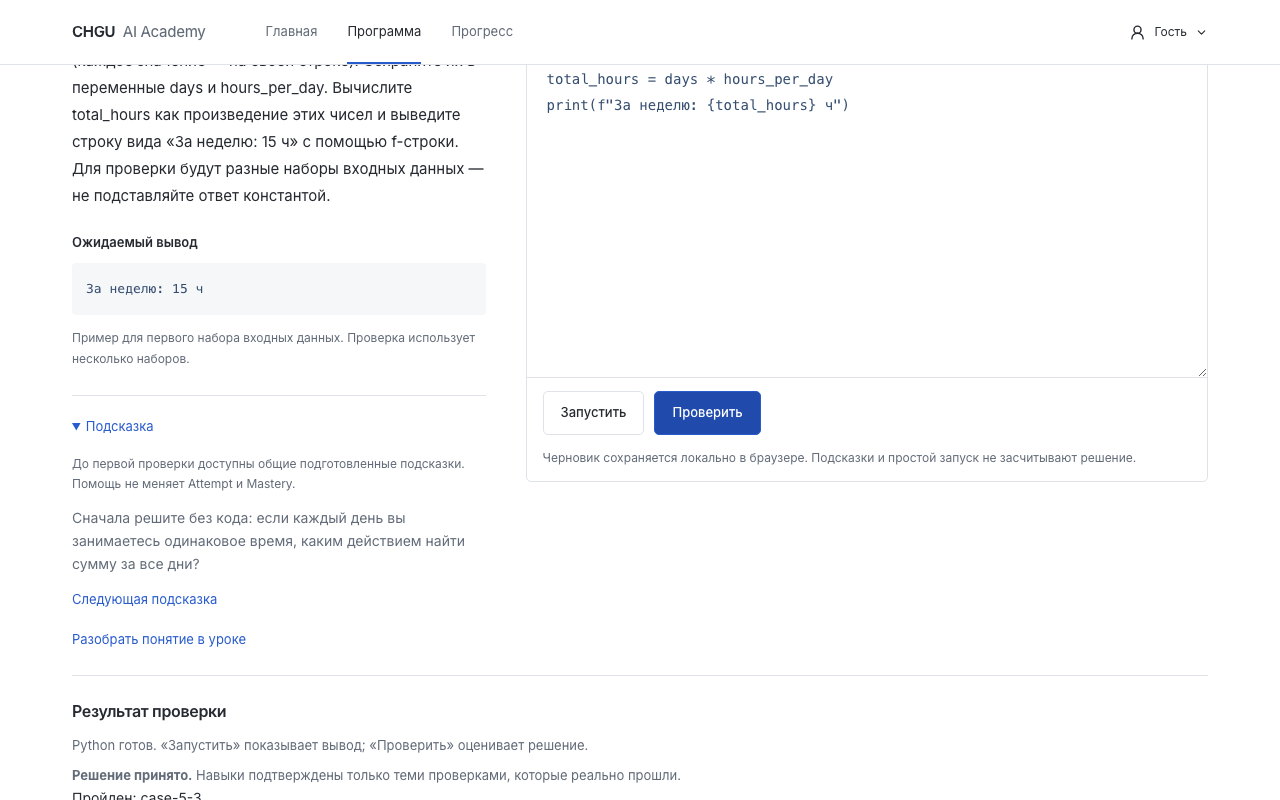
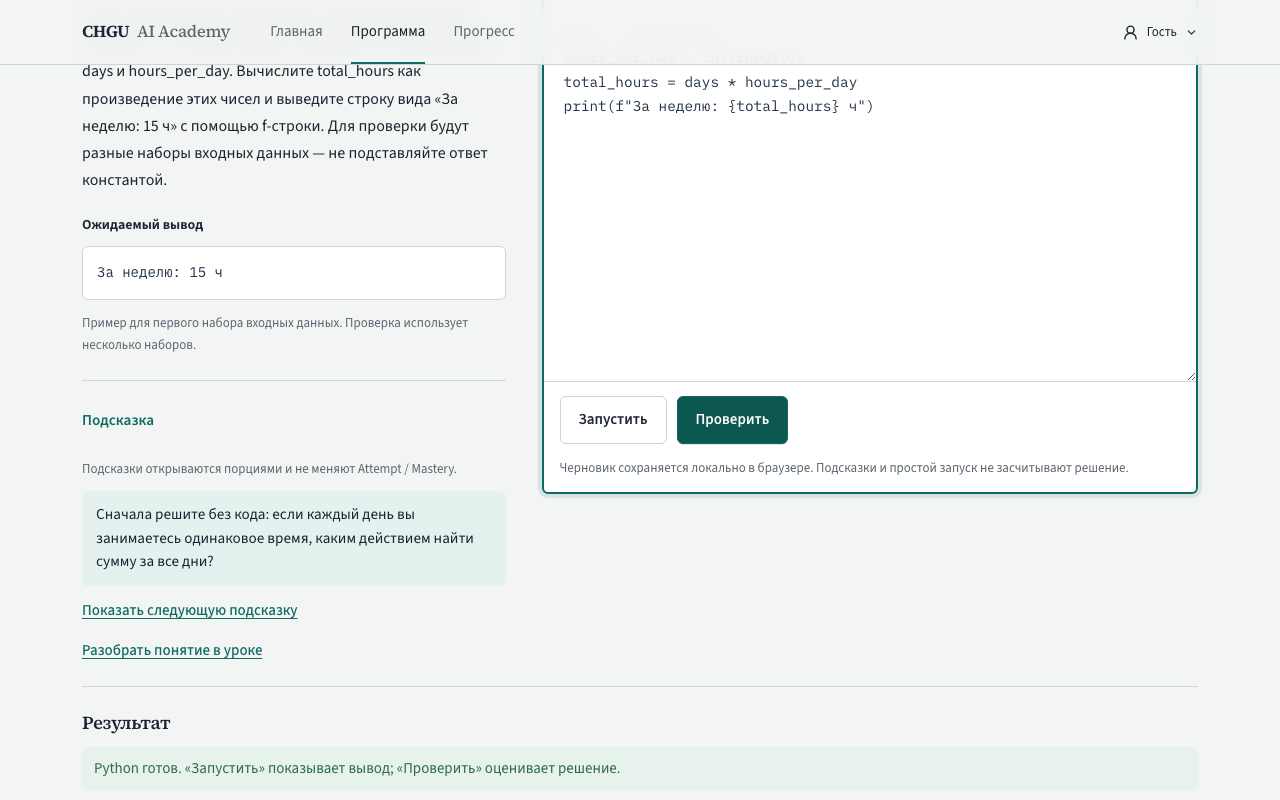
Add contest redesign report and refresh public evidence screenshots.

diff --git a/tasks/CURSOR_REPORT_REDESIGN.md b/tasks/CURSOR_REPORT_REDESIGN.md
@@ -1,0 +1,47 @@
+# Отчёт · конкурсный редизайн
+
+## Preview URL
+https://chgu-ai-academy-pe7coxp4h-isadadashev777-6756s-projects.vercel.app
+
+## Production URL
+https://chgu-ai-academy.vercel.app
+
+## База и ветка
+- Freeze tag: `redesign-base-2026-11-08` (+ `contest-2026-11-08`)
+- Ветка: `feat/contest-redesign` → смержена в `main` после проверки
+- Конкурсные DOCX/PDF не удалялись и не переписывались
+
+## Использованные skills (реально)
+Скачаны с GitHub и применены при работе:
+1. **frontend-design** (`anthropics/skills`) — характер, типографика, анти-шаблоны AI-дизайна
+2. **effective-ui-design** (`sebastian-software/effective-ui-design-skill`) — контраст/AA, 8pt ритм, иерархи кнопок, dark mode, reduced motion
+3. **accessibility-inclusive-design** (`hueyexe/frontend-agent-skills`) — семантика, фокус, skip-link, touch targets, keyboard
+4. **ui-visual-composition** (`hueyexe/frontend-agent-skills`) — иерархия, spacing, restraint
+
+Также использован локальный **deploy-with-vercel** (CLI deploy preview/prod; MCP Vercel в сессии не применялся).
+
+Специализированный «фирменный» skill бренда ЧГУ отсутствует — не утверждается.
+
+## Дизайн-решения
+Концепция «учебный стол» (`tasks/DESIGN_CONCEPT.md`):
+- Source Serif 4 + Source Sans 3 + IBM Plex Mono
+- Teal accent только для действий; спокойный paper-фон без декоративных градиентов/стоков/гербов
+- Главная: бренд + польза + CTA «Попробовать урок» + компактный цикл код→ошибка→подсказка→исправление; «1 урок · 2 задачи» вторично
+- Урок: сильнее заголовки/TOC/code blocks/заметки
+- Практика: акцент на редактор и «Проверить»; результат с явным следующим шагом; техдетали модели спрятаны в `<details>`
+- Прогресс: три панели — задачи / навыки / следующий шаг; без процентов и наград
+
+## Проверки
+- `npm run typecheck` — OK
+- `npm run build` — OK
+- `npm run test:learning` — OK
+- `npm run test:e2e` — OK (desktop/mobile 390, темы, оба редактора через сценарий, полный цикл)
+- Preview HTTPS полный путь — OK (`competition/evidence/redesign/preview-verify.log`)
+- Production короткий повтор — OK (`competition/evidence/redesign/production-verify.log`)
+- Скриншоты до/после: `competition/evidence/redesign/{before,after}/`
+
+## Ограничения
+- Публичная помощь — подготовленные подсказки; живая LLM не обещается
+- Один урок + две задачи
+- Клиентский Pyodide
+- Для просмотра preview временно отключён Vercel SSO на проекте (иначе 302 на auth)
